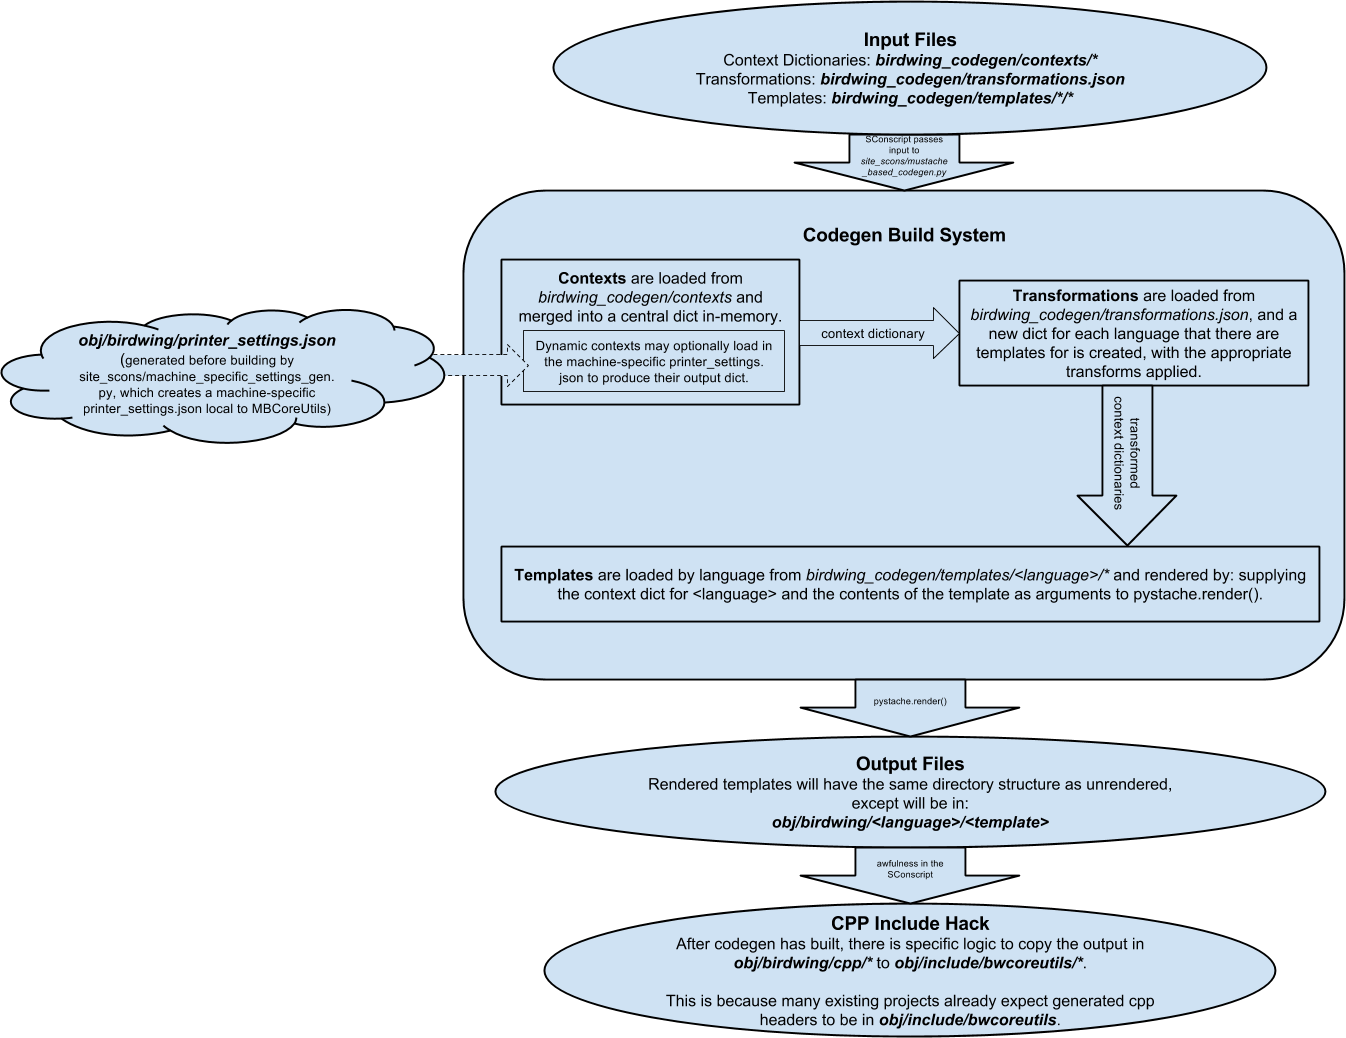
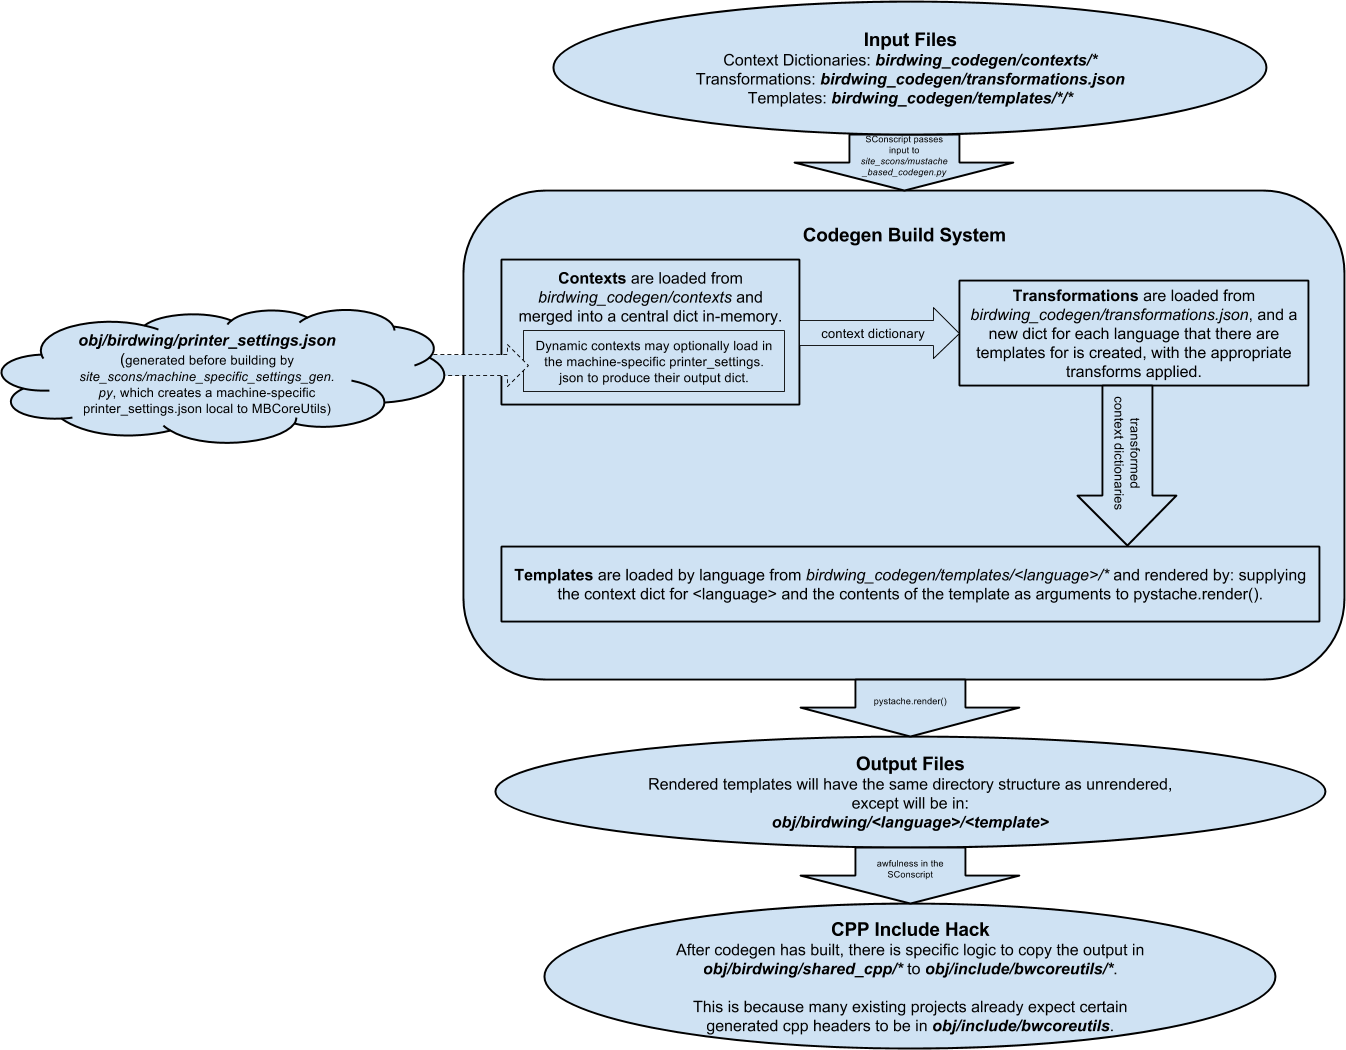
BWCodegen: Update readme to reflect changes to the cpp include hack
Codegen'd cpp files are now copied from obj/birdwing/shared_cpp (rather than obj/birdwing/cpp) to obj/include/bwcoreutils

BW-1540

diff --git a/birdwing_codegen/README.md b/birdwing_codegen/README.md
@@ -270,15 +270,15 @@ A possible input directory structure could look like:
 ```
 birdwing_codegen/
   templates/
-    cpp/
+    shared_cpp/
       fileone.hh
       filetwo.cc
+    machine_cpp/
+      checkoutmysushitho.cpp
+      checkoutmysushitho.h
     python/
       fileone.py
       filetwo.py
-    docs/
-      fileone.md
-      filetwo.md
 ```
 
 And the output like:
@@ -286,21 +286,21 @@ And the output like:
 ```
 obj/
   birdwing/
-    cpp/
+    shared_cpp/
       fileone.hh
       filetwo.cc
+    machine_cpp/
+      checkoutmysushitho.cpp
+      checkoutmysushitho.h
     python/
       fileone.py
       filetwo.py
-    docs/
-      fileone.md
-      filetwo.md
   include/
     bwcoreutils/
       fileone.hh
 ```
 
-Note how the cpp header files were specifically copied to *obj/include/bwcoreutils*.  This is part of a [hardcoded hack](#include_hack) in to avoid changing the existing build system for a bunch of projects.
+Note how the shared_cpp header files were specifically copied to *obj/include/bwcoreutils*.  This is part of a [hardcoded hack](#include_hack) in to avoid changing the existing build system for a bunch of projects.
 
 For an example template, see anything in *[birdwing_codegen/templates](templates)* or the [Mustache Docs](http://mustache.github.io/mustache.5.html).
 
@@ -309,12 +309,12 @@ For an example template, see anything in *[birdwing_codegen/templates](templates
 The scripts responsible for producing the code-generated output from the supplied contexts, transformations, and templates are primarily:
 
 
-- <a name="machine_settings_builder"></a>*[site_scons/machine_specific_settings_gen.py](../site_scons/machine_specific_settings_gen.py)*
+- <a name="machine_settings_builder"></a>*[site_scons/machine_specific_settings.py](../site_scons/machine_specific_settings.py)*
   - Part of a [hack to enable machine-specific code generation](#machine_specific_hack), this SCons builder will generate a machine-specific printer_settings.json file in the same manner that Birdwing-Software/firmware/settings/SConscript does.
 - *[site_scons/mustache_based_codegen.py](../site_scons/mustache_based_codegen.py)*
 	- Given a set of input files containing templates, contexts, and transformations, and a list of output locations matching the supplied template names, this SCons builder will render and save the code generated output.
 - *[SConscript](../SConscript)*
-	- Contains the logic to generate input and output files for codegen, and executes the machine_specific_settings builder, the mustache_based_codegen builder, and the [cpp include hack](#include_hack).
+	- Contains the logic to generate input and output files for codegen, and executes the machine_specific_settings builder, the mustache_based_codegen builder, and the [shared_cpp include hack](#include_hack).
 
 
 It should not be necessary to modify the build system to add additional code generation.
@@ -326,7 +326,7 @@ It should not be necessary to modify the build system to add additional code gen
 Unfortunately, a few hacky things needed to be implemented to get this code generation working with all our projects without requiring extensive refactors:
 
 ### <a name="include_hack"></a>CPP Output Copy Hack
-Many projects (Prototype, machine driver, others) expect the cpp header output for birdwing in MBCoreUtils to be in obj/include/bwcoreutils.  Codegen currently outputs all files in obj/birdwing/\<language\>/\<file\>.  Rather than refactoring a bunch of projects to change the location they're looking for cpp headers in, or refactoring much of codegen, the quickest solution seemed to be to add a hack to the [MBCoreUtils SConscript](../SConscript) to copy the output in obj/birdwing/cpp/* to obj/include/bwcoreutils/.
+Many projects (Prototype, machine driver, others) expect the shared_cpp header output for birdwing in MBCoreUtils to be in obj/include/bwcoreutils.  Codegen currently outputs all files in obj/birdwing/\<language\>/\<file\>.  Rather than refactoring a bunch of projects to change the location they're looking for shared_cpp headers in, or refactoring much of codegen, the quickest solution seemed to be to add a hack to the [MBCoreUtils SConscript](../SConscript) to copy the output in obj/birdwing/shared_cpp/* to obj/include/bwcoreutils/.
 
 Maybe this can be fixed in the future by allowing a custom output location to be specified on a per-file or per-language basis in a config file somewhere.
 
